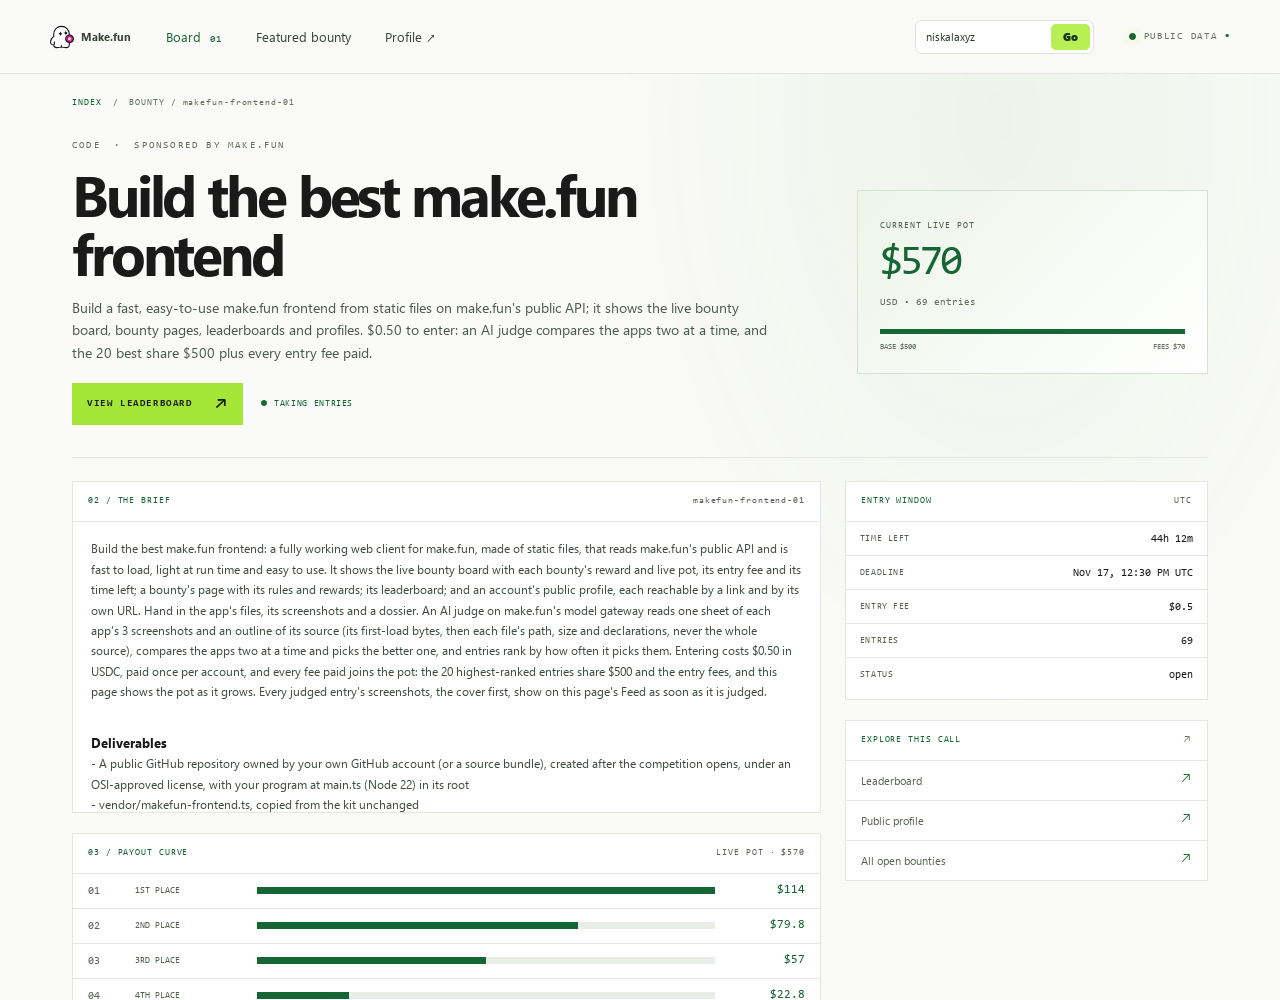
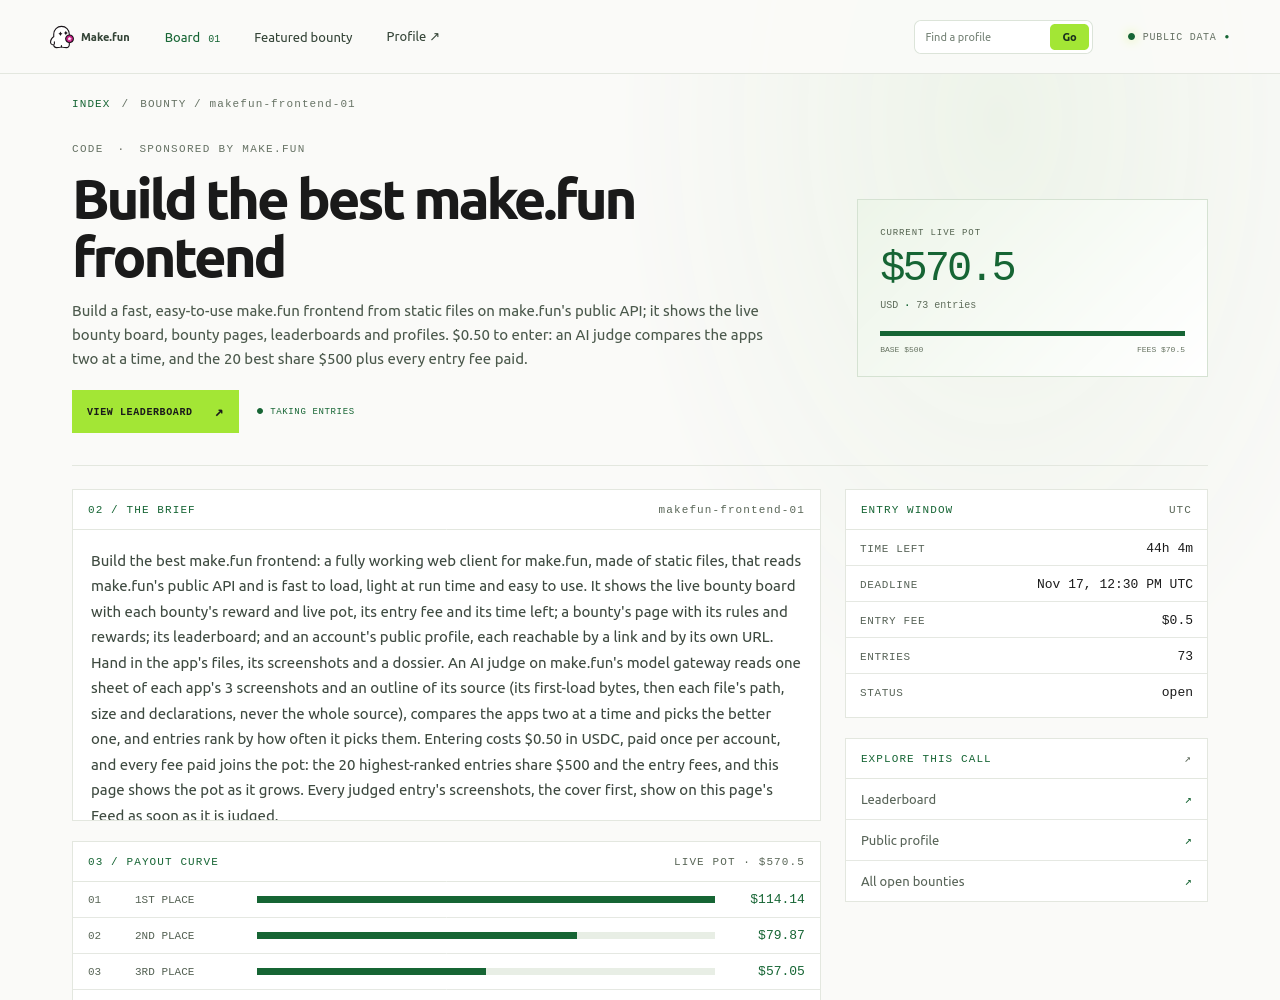
Tighten light bounty board layout

diff --git a/app/style.css b/app/style.css
@@ -86,3 +86,77 @@ footer{color:#687367;border-color:#e3e7df}
 .time-pill:before{content:'';width:5px;height:5px;border-radius:50%;margin-right:5px;background:currentColor}
 @media(max-width:980px){.top{gap:18px}.top nav{gap:17px}.profile-find input{width:105px}.live{font-size:0;gap:0}.live span{display:none}}
 @media(max-width:760px){.top{height:auto;min-height:82px;padding:9px 13px;display:grid;grid-template-columns:1fr auto;grid-template-areas:'brand live' 'nav find';gap:8px 10px}.header-brands{grid-area:brand}.top nav{grid-area:nav;gap:11px;font-size:10px;flex:none}.top nav a:nth-child(2){display:none}.top nav b{display:none}.profile-find{grid-area:find;height:32px}.profile-find input{width:95px;font-size:10px}.profile-find button{height:24px;padding:0 9px}.live{grid-area:live}.profile-summary{gap:7px;padding:9px 8px;flex-wrap:wrap}.profile-summary small{font-size:8px}.profile-summary strong{font-size:11px}.profile-summary>i{font-size:11px}.profile-updated{font-size:8px;margin-left:0;width:100%;text-align:right}.profile-table{min-width:640px}}
+
+/* Shared readable type scale and compact, light bounty board. */
+:root{--type-body:15px;--type-section:24px;--type-hero:clamp(36px,5vw,58px);--type-label:11px}
+body{font-size:var(--type-body)}
+.hero{padding:20px 0 18px}
+.hero h1{font-size:var(--type-hero);line-height:1.02;margin:10px 0 7px}
+.hero p{font-size:15px}
+.hero-stamp{width:76px;height:76px;top:22px;right:3%}
+.hero-stamp strong{font-size:23px}
+.stats{margin-bottom:20px}
+.stats>div{padding-top:10px;padding-bottom:9px}
+.stats strong{font-size:22px}
+.stats small,.stats-note small{font-size:11px}
+.stats span{font-size:12px}
+.section-head{margin-bottom:10px}
+.section-head h2{font-size:var(--type-section)}
+.search .search-icon{position:relative;width:15px;height:15px;flex:none}
+.search .search-icon:before{content:'';position:absolute;width:8px;height:8px;border:1.5px solid #667264;border-radius:50%;left:1px;top:1px}
+.search .search-icon:after{content:'';position:absolute;width:6px;height:1.5px;background:#667264;transform:rotate(45deg);left:9px;top:10px}
+.sort-note span{display:inline-block;font-size:15px;line-height:1;vertical-align:-1px}
+.controls{height:38px}
+.filters button{font-size:13px;padding-left:11px;padding-right:11px}
+.filters i{font-size:11px}
+.sort-note{font-size:11px}
+thead th{font-size:11px;padding:8px 9px}
+tbody td{padding:7px 9px;font-size:13px}
+.name-cell{gap:10px}
+.rowno{font-size:11px}
+.bounty-name{font-size:14px;line-height:1.22}
+.name-cell small,tbody td small{font-size:11px;margin-top:2px}
+.pot{font-size:16px}
+.pot small{font-size:10px!important}
+.fee{font-size:12px;padding:4px 7px}
+.time{font-size:13px}
+.deadline{font-size:11px!important}
+.entries{font-size:13px}
+.table-foot{min-height:42px;font-size:11px}
+.pager button{width:31px;height:29px}
+.surface-heading h1{font-size:40px}
+.detail-top h1{font-size:clamp(36px,4.8vw,56px)}
+.profile-title h1{font-size:36px}
+.eyebrow,.crumb,.panel-head,.fact small,.reward-label,.place,.outline,.handle,.entry-row small{font-size:11px}
+.summary,.description{font-size:15px}
+.fact strong,.reward-row>strong,.score{font-size:13px}
+.ranked tbody td{padding-top:12px;padding-bottom:12px}
+.profile-summary small{font-size:11px}
+.profile-summary strong{font-size:14px}
+.profile-updated{font-size:11px}
+.profile-table tbody td{padding-top:8px;padding-bottom:8px}
+.time-pill{font-size:11px}
+.entry-row span,.links a{font-size:13px}
+@media(max-width:760px){
+ .hero{padding:15px 0 13px}
+ .hero .eyebrow{font-size:11px}
+ .hero h1{font-size:37px;margin:8px 0 5px}
+ .hero p{font-size:14px;max-width:78%}
+ .hero-stamp{width:58px;height:58px;top:46px;right:2px}
+ .hero-stamp span,.hero-stamp small{font-size:8px}
+ .hero-stamp strong{font-size:18px}
+ .stats{margin-bottom:14px}
+ .stats>div{padding-top:8px;padding-bottom:8px}
+ .stats strong{font-size:19px}
+ .section-head{margin-bottom:7px}
+ .section-head h2{font-size:21px}
+ .filters button{font-size:12px;padding:10px 7px}
+ .sort-note{font-size:9px;white-space:nowrap}
+ .table-wrap table{min-width:720px}
+ .table-foot{font-size:9px}
+ .surface-heading h1{font-size:31px}
+ .profile-title h1{font-size:28px}
+ .profile-summary small{font-size:10px}
+ .profile-summary strong{font-size:12px}
+ .profile-updated{font-size:10px}
+}

diff --git a/app/main.js b/app/main.js
@@ -16,8 +16,8 @@ function renderBoard(){
   const pages=Math.max(1,Math.ceil(filtered.length/PAGE_SIZE));page=Math.min(page,pages);const rows=filtered.slice((page-1)*PAGE_SIZE,page*PAGE_SIZE);
   app.innerHTML=`<section class="hero"><div class="eyebrow"><span>THE LIVE CHALLENGE INDEX</span><span>FIELD REPORT / ${new Date().toISOString().slice(0,16).replace('T',' ')} UTC</span></div><h1>Find a challenge.<br><em>Make your mark.</em></h1><p>Open calls, real prize pools, and the clock that matters. Pick a lane and get to work.</p><div class="hero-stamp"><span>№</span><strong>01</strong><small>LIVE<br>BOARD</small></div></section>
   <section class="stats"><div><small>ACCEPTING ENTRIES</small><strong>${nowOpen.length.toString().padStart(2,'0')}</strong><span>active deadlines</span></div><div><small>LIVE POT / USD</small><strong>${money(pot)}</strong><span>across open calls</span></div><div><small>CLOSING IN 48H</small><strong>${soon.length.toString().padStart(2,'0')}</strong><span>make it count</span></div><div class="stats-note"><span class="signal"></span><b>LIVE INDEX</b><small>Public API · GET only</small></div></section>
-  <section class="board"><div class="section-head"><div><div class="eyebrow">01 / OPPORTUNITY REGISTER</div><h2>Open bounties <sup>${filtered.length}</sup></h2></div><label class="search"><span>⌕</span><input id="search" type="search" placeholder="Search title, sponsor, category…" value="${esc(query)}"><kbd> / </kbd></label></div>
-  <div class="controls"><div class="filters"><button data-filter="all" class="${filter==='all'?'active':''}">All bounties <i>${all.length}</i></button><button data-filter="soon" class="${filter==='soon'?'active':''}">Closing soon</button><button data-filter="free" class="${filter==='free'?'active':''}">Free entry</button></div><span class="sort-note">SORTED BY DEADLINE <span>↘</span></span></div>
+  <section class="board"><div class="section-head"><div><div class="eyebrow">01 / OPPORTUNITY REGISTER</div><h2>Open bounties <sup>${filtered.length}</sup></h2></div><label class="search"><span class="search-icon" aria-hidden="true"></span><input id="search" type="search" placeholder="Search title, sponsor, category…" value="${esc(query)}"><kbd> / </kbd></label></div>
+  <div class="controls"><div class="filters"><button data-filter="all" class="${filter==='all'?'active':''}">All bounties <i>${all.length}</i></button><button data-filter="soon" class="${filter==='soon'?'active':''}">Closing soon</button><button data-filter="free" class="${filter==='free'?'active':''}">Free entry</button></div><span class="sort-note">SORTED BY DEADLINE <span>↓</span></span></div>
   <div class="table-wrap"><table><thead><tr><th>BOUNTY / SPONSOR</th><th>LIVE POT</th><th>ENTRY FEE</th><th>TIME LEFT</th><th>ENTRIES</th><th></th></tr></thead><tbody>${rows.map((b,i)=>`<tr><td class="name-cell"><span class="rowno">${String((page-1)*PAGE_SIZE+i+1).padStart(2,'0')}</span><span><a class="bounty-name" href="#/bounty/${encodeURIComponent(b.slug)}">${esc(b.title)}</a><small>${esc(b.sponsor?.name||'make.fun')} <span>·</span> ${esc(b.category||'OPEN CALL')}</small></span></td><td class="pot">${money(live(b))}<small>USD LIVE</small></td><td><span class="fee ${fee(b)==='Free'?'free':''}">${fee(b)}</span></td><td><span class="time ${isOpen(b)?'':'closed'}">${remaining(b.deadline)}</span><small class="deadline">${date(b.deadline)}</small></td><td class="entries">${Number(b.submissionCount||0).toLocaleString()}</td><td><a class="arrow" href="#/bounty/${encodeURIComponent(b.slug)}">↗</a></td></tr>`).join('')||'<tr><td colspan="6" class="empty">No calls match that search.</td></tr>'}</tbody></table></div>
   <div class="table-foot"><span>SHOWING <b>${filtered.length?((page-1)*PAGE_SIZE+1):0}–${Math.min(page*PAGE_SIZE,filtered.length)}</b> OF <b>${filtered.length}</b> · DEADLINE IS THE ENTRY CUTOFF</span><div class="pager"><button id="prev" ${page<=1?'disabled':''}>←</button><span>${String(page).padStart(2,'0')} / ${String(pages).padStart(2,'0')}</span><button id="next" ${page>=pages?'disabled':''}>→</button></div></div></section>`;
   app.querySelectorAll('[data-filter]').forEach(b=>b.onclick=()=>{filter=b.dataset.filter;page=1;renderBoard();});
